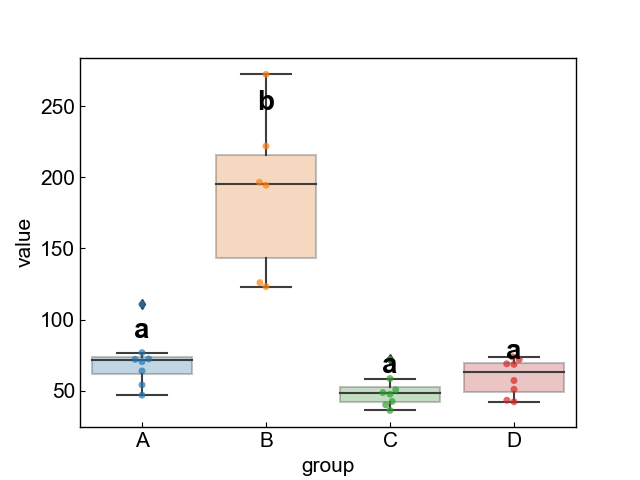
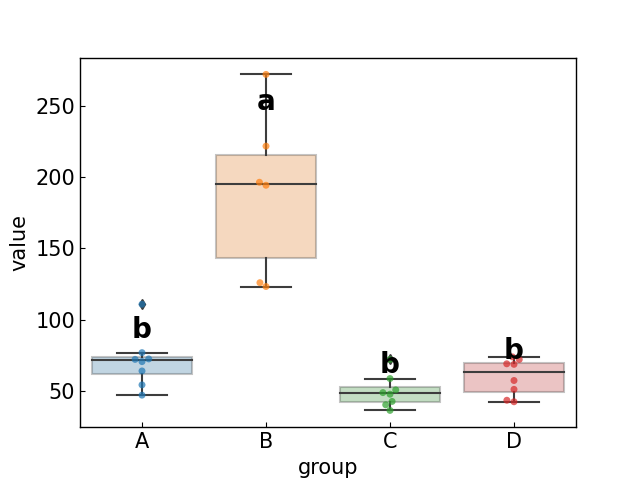
update colors

diff --git a/src/easy_plot/twosample.py b/src/easy_plot/twosample.py
@@ -1,9 +1,12 @@
-from typing import Literal, Optional
+from logging import getLogger
+from typing import Literal, Optional, Union
 
 import pandas as pd
 import seaborn as sns  # type: ignore
 from matplotlib.axes import Axes  # type: ignore
 from statannotations.Annotator import Annotator  # type: ignore
+
+logger = getLogger(__name__)
 
 
 def box_swarm_plot(
@@ -11,6 +14,8 @@ def box_swarm_plot(
     ax: Axes,
     x: str = "group",
     y: str = "value",
+    colors: Optional[list[str]] = None,
+    color_palette: Optional[str] = None,
     xlabel: Optional[str] = None,
     ylabel: Optional[str] = None,
     test: Optional[Literal["t-test_welch"]] = "t-test_welch",
@@ -19,8 +24,19 @@ def box_swarm_plot(
     groups = list(df[x].unique())
     assert len(groups) == 2
 
-    sns.swarmplot(x=x, y=y, data=df, alpha=0.7, ax=ax)
-    sns.boxplot(x=x, y=y, data=df, ax=ax, boxprops=dict(alpha=0.3))
+    palette: Optional[Union[str, list[str]]] = None
+    if colors is not None and color_palette is not None:
+        logger.warn("color_palette is ignoring because colors are specified.")
+        palette = colors
+    elif colors is not None:
+        palette = colors
+    elif color_palette is not None:
+        palette = color_palette
+    else:
+        pass
+
+    sns.swarmplot(x=x, y=y, data=df, alpha=0.7, ax=ax, palette=palette)
+    sns.boxplot(x=x, y=y, data=df, ax=ax, boxprops=dict(alpha=0.3), palette=palette)
 
     if xlabel is not None:
         ax.set_xlabel(xlabel)
@@ -30,7 +46,7 @@ def box_swarm_plot(
     if test is not None:
         pairs = [(groups[0], groups[1])]
         annotator = Annotator(ax, pairs, data=df, x=x, y=y)
-        annotator.configure(test="t-test_welch", text_format=text_format)
+        annotator.configure(test=test, text_format=text_format)
         annotator.apply_and_annotate()
 
     return ax

diff --git a/src/easy_plot/multisample.py b/src/easy_plot/multisample.py
@@ -1,4 +1,5 @@
-from typing import Optional
+from logging import getLogger
+from typing import Optional, Union
 
 import pandas as pd
 import seaborn as sns  # type: ignore
@@ -7,18 +8,33 @@ from statsmodels.stats.multicomp import pairwise_tukeyhsd  # type: ignore
 
 from easy_plot.cld import adjgraph_from_tukey, get_cld_from_graph
 
+logger = getLogger(__name__)
+
 
 def box_swarm_plot(
     df: pd.DataFrame,
     ax: Axes,
     x: str = "group",
     y: str = "value",
+    colors: Optional[list[str]] = None,
+    color_palette: Optional[str] = None,
     xlabel: Optional[str] = None,
     ylabel: Optional[str] = None,
     run_tukey=True,
 ):
-    sns.swarmplot(x=x, y=y, data=df, alpha=0.7, ax=ax)
-    sns.boxplot(x=x, y=y, data=df, ax=ax, boxprops=dict(alpha=0.3))
+    palette: Optional[Union[str, list[str]]] = None
+    if colors is not None and color_palette is not None:
+        logger.warn("color_palette is ignoring because colors are specified.")
+        palette = colors
+    elif colors is not None:
+        palette = colors
+    elif color_palette is not None:
+        palette = color_palette
+    else:
+        pass
+
+    sns.swarmplot(x=x, y=y, data=df, alpha=0.7, ax=ax, palette=palette)
+    sns.boxplot(x=x, y=y, data=df, ax=ax, boxprops=dict(alpha=0.3), palette=palette)
 
     if xlabel is not None:
         ax.set_xlabel(xlabel)

diff --git a/src/easy_plot/handlers.py b/src/easy_plot/handlers.py
@@ -20,7 +20,12 @@ def plot_multisample(args: Namespace):
     fig = plt.figure(figsize=get_figsize(args.figsize))
     ax = fig.add_subplot(111)
     multisample.box_swarm_plot(
-        df, ax, xlabel=args.xlabel, ylabel=args.ylabel, run_tukey=args.run_tukey
+        df,
+        ax,
+        xlabel=args.xlabel,
+        ylabel=args.ylabel,
+        run_tukey=args.run_tukey,
+        colors=args.colors,
     )
 
     plt.savefig(args.output)
@@ -32,7 +37,13 @@ def plot_twosample(args: Namespace):
     fig = plt.figure(figsize=get_figsize(args.figsize))
     ax = fig.add_subplot(111)
     twosample.box_swarm_plot(
-        df, ax, xlabel=args.xlabel, ylabel=args.ylabel, test=args.test, text_format=args.text_format
+        df,
+        ax,
+        xlabel=args.xlabel,
+        ylabel=args.ylabel,
+        test=args.test,
+        text_format=args.text_format,
+        colors=args.colors,
     )
 
     plt.savefig(args.output)

diff --git a/src/easy_plot/main.py b/src/easy_plot/main.py
@@ -14,6 +14,7 @@ def attach_plot_argument(parser: argparse.ArgumentParser):
     parser.add_argument(
         "--ylabel", type=str, default=None, help="ylabel of figure. default is value"
     )
+    parser.add_argument("--colors", nargs="*", default=None, help="specify a color of each group")
 
     return parser
 

diff --git a/README.md b/README.md
@@ -1,6 +1,6 @@
 # easy-plot
 
-The CLI tool to write plot easily
+The CLI tool to plot biological data easily
 
 ## Installation
 
@@ -8,7 +8,7 @@ The CLI tool to write plot easily
 pip install git+https://github.com/illumination-k/easy-plot.git
 ```
 
-## Multiplot
+## Multisample plot
 
 Plot boxplot and swarmplot with tukey-hsd test.
 
